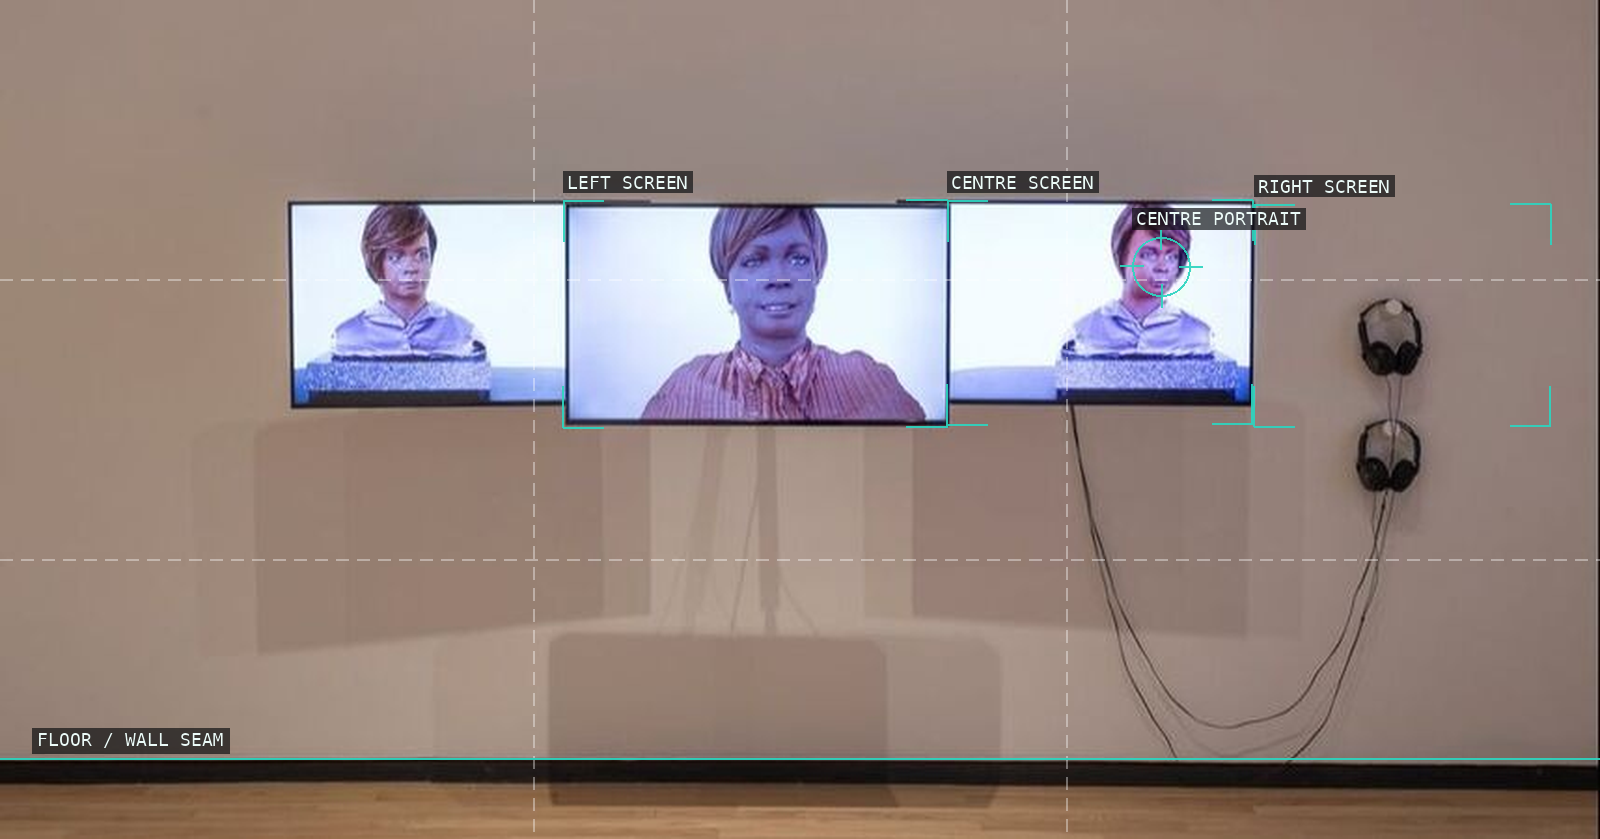
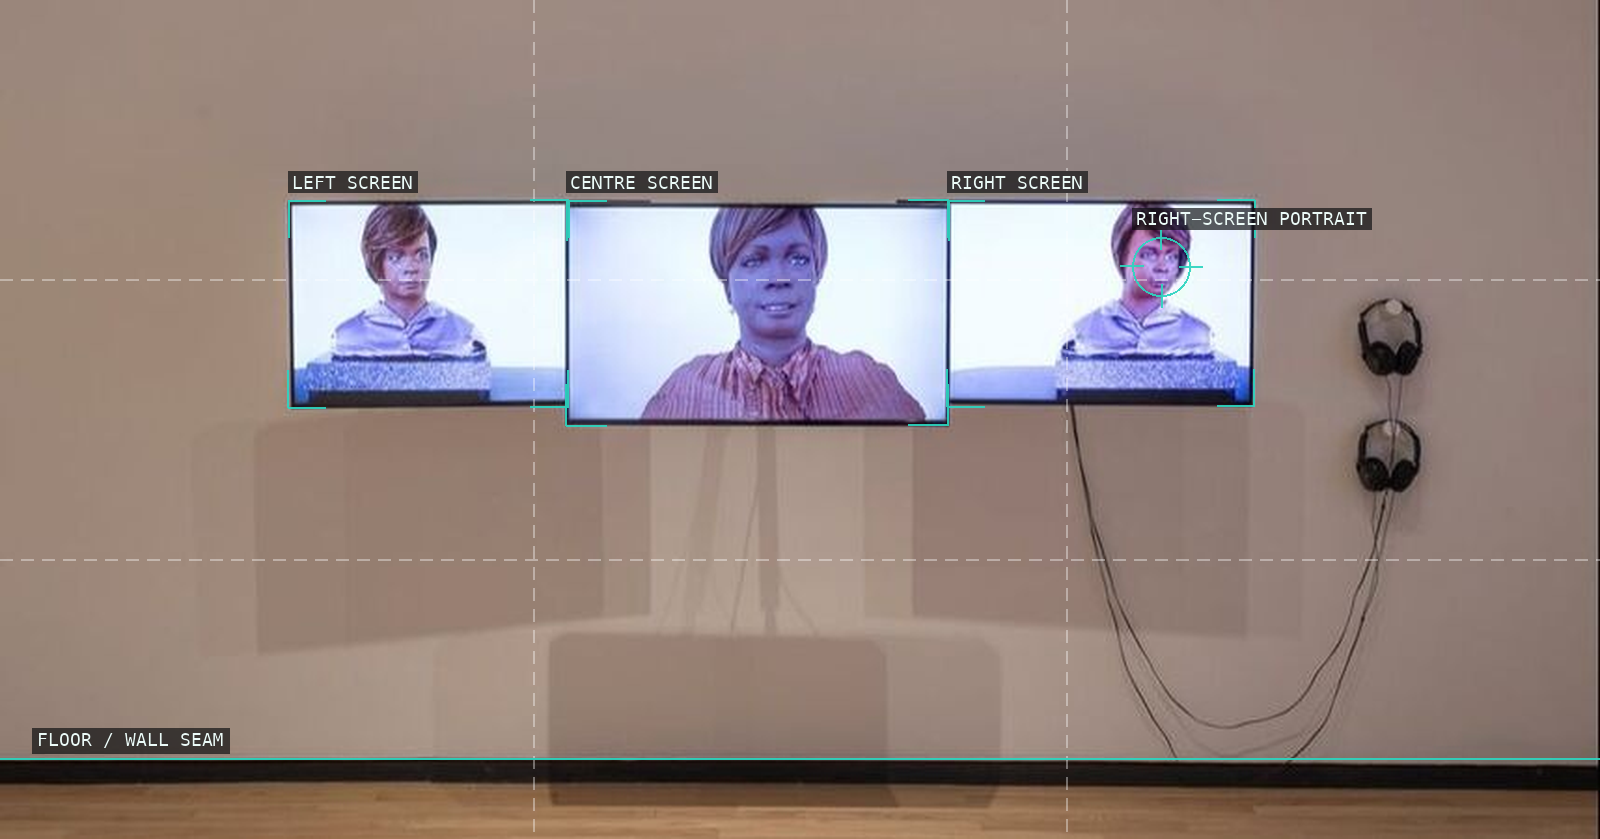
resolve critique: stephanie-dinkins

diff --git a/content/stephanie-dinkins/critique.md b/content/stephanie-dinkins/critique.md
@@ -1,4 +1,4 @@
-verdict: revise
+verdict: resolved
 
 ## Critique round — 2026-08-03
 
@@ -14,3 +14,21 @@ verdict: revise
 
 - `02-bina48-fragments-7-6-5-2-icp`: the four screen boxes broadly trace the monitors, but the `LOWER SCREEN` anchor is positioned on the upper edge of the lower-right monitor and the repeated boxes read more as an inventory than a compositional argument. Consider simplifying or anchoring a pictured subject/viewer.
 - `06-ntoo-making-process`: `STARTING PROMPT` marks “Getting started” rather than the heading above, and the `PROCESS LIST` frame excludes the visible “learn Tensorflow” line. Tightening those labels/bounds would make the teaching claim clearer, but the current overlay remains legible.
+
+## Resolution — 2026-08-03
+
+Re-verified critique round 2026-08-03 in full.
+
+1. Re-rendered `03-bina48-fragments-17-19-20-mocp`. Its three labelled
+   frames now trace the actual left, centre, and right monitors; the portrait
+   anchor is on the right monitor and is labelled accordingly. Deterministic
+   score: 97/100 (pass), followed by a clean visual pass.
+2. Removed the unsupported Museum of Contemporary Photography attribution from
+   the source notes, research note, and both byte-identical chapter copies. The
+   2020 image is now described only as the artist page documents it.
+3. Rewrote all six per-image fair-use credit statements: five distinguish artist
+   attribution from the absence of a supplied work-specific notice; the Whitney
+   record's “© Stephanie Dinkins Studio” notice is retained only for *Fragments
+   7, 6, 5, 2*.
+
+`bash scripts/check.sh` passed before this resolution was recorded.

diff --git a/content/stephanie-dinkins/research.md b/content/stephanie-dinkins/research.md
@@ -6,10 +6,10 @@ The source packet identifies *Conversations with Bina48* (2014–present) as a
 long-term videotaped exchange between Stephanie Dinkins and the social robot
 Bina48. It identifies *Conversations with Bina48: Fragments 7, 6, 5, 2* as a
 four-channel video installation in the related Whitney record, while the
-artist’s page supplies the selected International Center of Photography and
-Museum of Contemporary Photography installation views. The packet identifies
-the ICP view as *Fragments 7, 6, 5, 2* (2018) and the Museum of Contemporary
-Photography view as *Fragments 17, 19 & 20* (2020). [Source notes](sources.md)
+artist’s page supplies the selected International Center of Photography view
+and a separate display image. The packet identifies the ICP view as *Fragments
+7, 6, 5, 2* (2018); for *Fragments 17, 19 & 20*, it establishes only the title,
+2020 date, and “image only” caption, not a venue. [Source notes](sources.md)
 
 The same packet identifies *Not the Only One* (N’TOO, 2018–present) as a
 conversational AI project built from the oral histories of three generations of
@@ -31,4 +31,3 @@ retain no camera EXIF. This chapter therefore describes only documented project
 contexts and visible, rendition-level evidence—framing, screen repetition,
 silhouette, tonal range, palette, and text hierarchy—without inferring their
 production settings from web copies.
-
